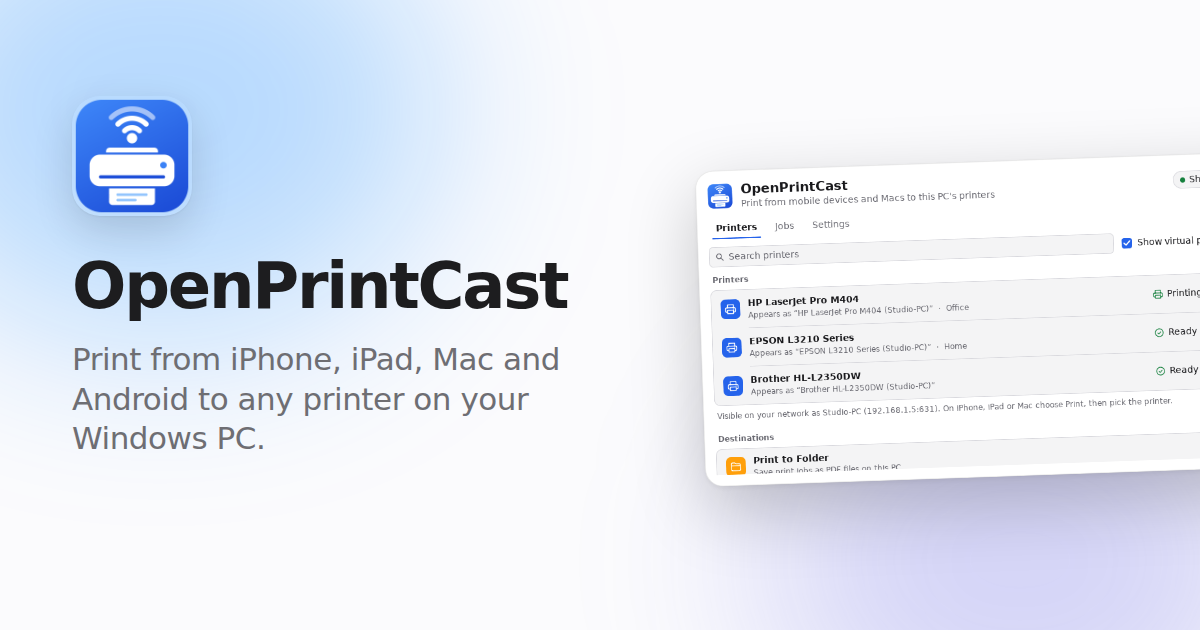
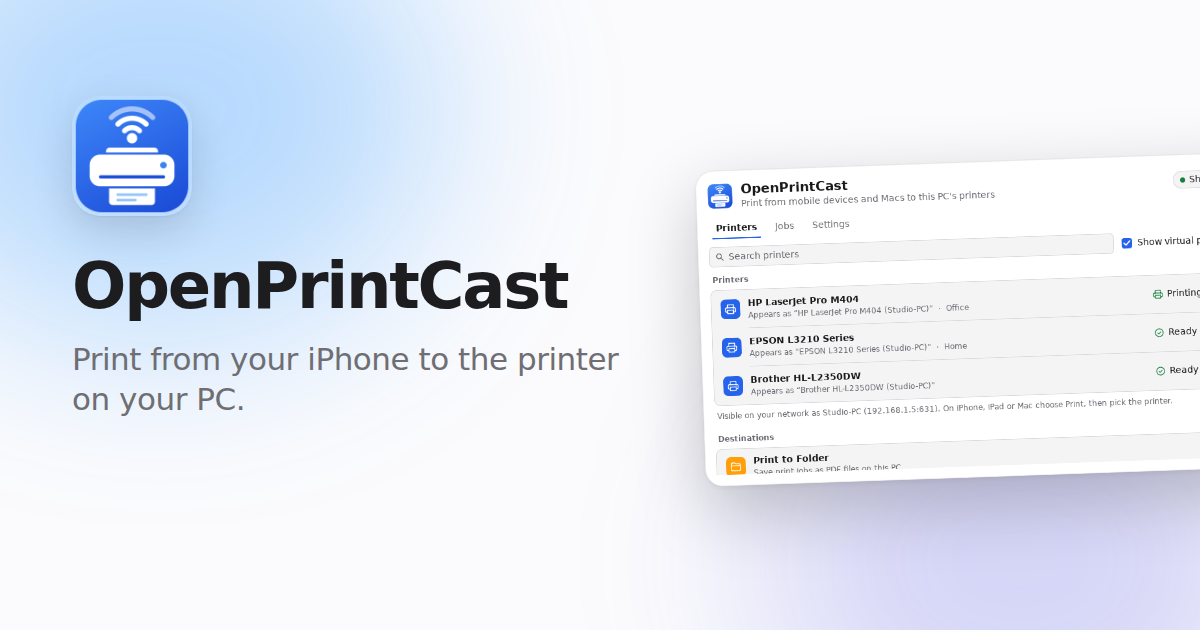
Rewrite the landing page copy
Lead with a concrete outcome (print from your iPhone to the printer on your
PC) and say what each feature does in short, plain sentences, in place of
generic slogans. Update the meta, social and FAQ structured data to match,
and re-render the social preview image.

Changed region(s): [[0.0617, 0.5429, 0.5242, 0.7238]]

diff --git a/docs/index.html b/docs/index.html
@@ -4,7 +4,7 @@
   <meta charset="utf-8">
   <meta name="viewport" content="width=device-width, initial-scale=1, viewport-fit=cover">
   <title>OpenPrintCast – Share Windows printers over AirPrint and IPP</title>
-  <meta name="description" content="Share your Windows printers with iPhone, iPad, Mac and Android. OpenPrintCast is a small tray app that exposes them as AirPrint and IPP Everywhere printers.">
+  <meta name="description" content="OpenPrintCast turns the printers on your Windows PC into AirPrint printers. iPhone, iPad, Mac and Android find them on their own. Free and open source.">
   <meta name="robots" content="index, follow, max-image-preview:large">
   <meta name="author" content="ilyasaftr">
   <meta name="application-name" content="OpenPrintCast">
@@ -19,8 +19,8 @@
   <meta property="og:type" content="website">
   <meta property="og:site_name" content="OpenPrintCast">
   <meta property="og:locale" content="en_US">
-  <meta property="og:title" content="OpenPrintCast – Print from any device to your Windows PC">
-  <meta property="og:description" content="Print from iPhone, iPad, Mac and Android to any printer on your Windows PC.">
+  <meta property="og:title" content="OpenPrintCast – Print from your iPhone to the printer on your PC">
+  <meta property="og:description" content="Turn the printers on your Windows PC into AirPrint printers for iPhone, iPad, Mac and Android. Free and open source.">
   <meta property="og:url" content="https://ilyasaftr.github.io/OpenPrintCast/">
   <meta property="og:image" content="https://ilyasaftr.github.io/OpenPrintCast/assets/img/og.png">
   <meta property="og:image:type" content="image/png">
@@ -28,8 +28,8 @@
   <meta property="og:image:height" content="630">
   <meta property="og:image:alt" content="OpenPrintCast shares Windows printers with iPhone, iPad, Mac and Android. The Printers tab is shown.">
   <meta name="twitter:card" content="summary_large_image">
-  <meta name="twitter:title" content="OpenPrintCast – Print from any device to your Windows PC">
-  <meta name="twitter:description" content="Print from iPhone, iPad, Mac and Android to any printer on your Windows PC.">
+  <meta name="twitter:title" content="OpenPrintCast – Print from your iPhone to the printer on your PC">
+  <meta name="twitter:description" content="Turn the printers on your Windows PC into AirPrint printers for iPhone, iPad, Mac and Android. Free and open source.">
   <meta name="twitter:image" content="https://ilyasaftr.github.io/OpenPrintCast/assets/img/og.png">
   <meta name="twitter:image:alt" content="OpenPrintCast shares Windows printers with iPhone, iPad, Mac and Android. The Printers tab is shown.">
   <link rel="stylesheet" href="assets/style.css">
@@ -42,7 +42,7 @@
       "@id": "https://ilyasaftr.github.io/OpenPrintCast/#website",
       "url": "https://ilyasaftr.github.io/OpenPrintCast/",
       "name": "OpenPrintCast",
-      "description": "Print from iPhone, iPad, Mac and Android to any printer on your Windows PC.",
+      "description": "Turn the printers on your Windows PC into AirPrint printers for iPhone, iPad, Mac and Android. Free and open source.",
       "inLanguage": "en"
     },
     {
@@ -50,7 +50,7 @@
       "@id": "https://ilyasaftr.github.io/OpenPrintCast/#app",
       "name": "OpenPrintCast",
       "url": "https://ilyasaftr.github.io/OpenPrintCast/",
-      "description": "Share your Windows printers with iPhone, iPad, Mac and Android. OpenPrintCast is a small tray app that exposes them as AirPrint and IPP Everywhere printers.",
+      "description": "OpenPrintCast turns the printers on your Windows PC into AirPrint printers. iPhone, iPad, Mac and Android find them on their own. Free and open source.",
       "applicationCategory": "UtilitiesApplication",
       "operatingSystem": "Windows 10, Windows 11",
       "processorRequirements": "amd64, arm64",
@@ -82,7 +82,7 @@
       "mainEntity": [
         {
           "@type": "Question",
-          "name": "A device sees the printer but can’t print",
+          "name": "My device finds the printer but can’t print. Why?",
           "acceptedAnswer": {
             "@type": "Answer",
             "text": "Windows treats the network as Public, or the firewall blocks TCP 631. Use the banner on the Printers tab: Open Network Settings to switch to Private, or Allow in Windows Firewall (one UAC prompt, local subnet only). Copy Diagnostics gives you text to share when reporting a problem."
@@ -90,7 +90,7 @@
         },
         {
           "@type": "Question",
-          "name": "“iPhone, iPad and Mac can’t print here”",
+          "name": "Why does a printer say “iPhone, iPad and Mac can’t print here”?",
           "acceptedAnswer": {
             "@type": "Answer",
             "text": "The driver doesn’t report paper sizes, orientation or resolution. Update it, then choose Scan Again."
@@ -132,7 +132,7 @@
       <ul class="nav-links">
         <li><a href="#features">Features</a></li>
         <li><a href="#how">How it works</a></li>
-        <li><a href="#faq">Help</a></li>
+        <li><a href="#faq">Questions</a></li>
         <li><a href="https://github.com/ilyasaftr/OpenPrintCast">GitHub</a></li>
       </ul>
       <a class="btn btn-small btn-primary" href="#download">Download</a>
@@ -142,8 +142,8 @@
   <main id="main">
     <section class="hero" id="top">
       <img class="hero-icon" data-anim src="assets/img/icon-256.png" alt="OpenPrintCast logo" width="104" height="104">
-      <h1 data-split>Print from any device to your Windows PC.</h1>
-      <p class="lead" data-anim>OpenPrintCast shares the printers on your PC as AirPrint and IPP&nbsp;Everywhere printers. iPhone, iPad, Mac and Android find them automatically. There is nothing to install on the device.</p>
+      <h1 data-split>Print from your iPhone to the printer on your PC.</h1>
+      <p class="lead" data-anim>OpenPrintCast turns the printers on your Windows PC into AirPrint printers. iPhone, iPad, Mac and Android find them on their own, with no drivers and nothing to install on the device.</p>
       <div class="cta" data-anim>
         <a class="btn btn-primary btn-large" id="cta-download" href="https://github.com/ilyasaftr/OpenPrintCast/releases/latest">Download for Windows</a>
         <a class="btn btn-secondary btn-large" href="https://github.com/ilyasaftr/OpenPrintCast">View on GitHub</a>
@@ -161,32 +161,32 @@
     </section>
 
     <section class="section" id="features" aria-labelledby="features-title">
-      <h2 id="features-title">Everything you need.<br><span class="muted">Nothing you don’t.</span></h2>
+      <h2 id="features-title">Any printer on your PC.<br><span class="muted">Any phone, tablet&nbsp;or&nbsp;Mac.</span></h2>
 
       <div class="bento">
         <article data-anim class="card span-2">
           <span class="icon"><svg class="ic" aria-hidden="true" focusable="false" xmlns="http://www.w3.org/2000/svg" viewBox="0 0 256 256" fill="currentColor"><path d="M232,96v80H192V152H64v24H24V96c0-8.84,7.76-16,17.33-16H214.67C224.24,80,232,87.16,232,96Z" opacity="0.2"/><path d="M214.67,72H200V40a8,8,0,0,0-8-8H64a8,8,0,0,0-8,8V72H41.33C27.36,72,16,82.77,16,96v80a8,8,0,0,0,8,8H56v32a8,8,0,0,0,8,8H192a8,8,0,0,0,8-8V184h32a8,8,0,0,0,8-8V96C240,82.77,228.64,72,214.67,72ZM72,48H184V72H72ZM184,208H72V160H184Zm40-40H200V152a8,8,0,0,0-8-8H64a8,8,0,0,0-8,8v16H32V96c0-4.41,4.19-8,9.33-8H214.67c5.14,0,9.33,3.59,9.33,8Zm-24-52a12,12,0,1,1-12-12A12,12,0,0,1,200,116Z"/></svg></span>
-          <h3>Your existing printers</h3>
-          <p>Paper size, color, duplex, page ranges and copies, when the driver supports them.</p>
+          <h3>Use the printer you have</h3>
+          <p>No new hardware. Paper size, color, duplex, page ranges and copies carry over, when your driver supports them.</p>
         </article>
 
         <article data-anim class="card span-2">
           <span class="icon"><svg class="ic" aria-hidden="true" focusable="false" xmlns="http://www.w3.org/2000/svg" viewBox="0 0 256 256" fill="currentColor"><path d="M160,128a32,32,0,1,1-32-32A32,32,0,0,1,160,128Z" opacity="0.2"/><path d="M128,88a40,40,0,1,0,40,40A40,40,0,0,0,128,88Zm0,64a24,24,0,1,1,24-24A24,24,0,0,1,128,152Zm73.71,7.14a80,80,0,0,1-14.08,22.2,8,8,0,0,1-11.92-10.67,63.95,63.95,0,0,0,0-85.33,8,8,0,1,1,11.92-10.67,80.08,80.08,0,0,1,14.08,84.47ZM69,103.09a64,64,0,0,0,11.26,67.58,8,8,0,0,1-11.92,10.67,79.93,79.93,0,0,1,0-106.67A8,8,0,1,1,80.29,85.34,63.77,63.77,0,0,0,69,103.09ZM248,128a119.58,119.58,0,0,1-34.29,84,8,8,0,1,1-11.42-11.2,103.9,103.9,0,0,0,0-145.56A8,8,0,1,1,213.71,44,119.58,119.58,0,0,1,248,128ZM53.71,200.78A8,8,0,1,1,42.29,212a119.87,119.87,0,0,1,0-168,8,8,0,1,1,11.42,11.2,103.9,103.9,0,0,0,0,145.56Z"/></svg></span>
-          <h3>Automatic discovery</h3>
-          <p>Advertised over Bonjour, so printers appear on iOS, iPadOS, macOS and Android.</p>
+          <h3>Found on its own</h3>
+          <p>Your printers appear in the print dialog on iPhone, iPad, Mac and Android. Nothing to install on the device.</p>
         </article>
 
         <article data-anim class="card span-2">
           <span class="icon"><svg class="ic" aria-hidden="true" focusable="false" xmlns="http://www.w3.org/2000/svg" viewBox="0 0 256 256" fill="currentColor"><path d="M208,88H152V32Z" opacity="0.2"/><path d="M224,152a8,8,0,0,1-8,8H192v16h16a8,8,0,0,1,0,16H192v16a8,8,0,0,1-16,0V152a8,8,0,0,1,8-8h32A8,8,0,0,1,224,152ZM92,172a28,28,0,0,1-28,28H56v8a8,8,0,0,1-16,0V152a8,8,0,0,1,8-8H64A28,28,0,0,1,92,172Zm-16,0a12,12,0,0,0-12-12H56v24h8A12,12,0,0,0,76,172Zm88,8a36,36,0,0,1-36,36H112a8,8,0,0,1-8-8V152a8,8,0,0,1,8-8h16A36,36,0,0,1,164,180Zm-16,0a20,20,0,0,0-20-20h-8v40h8A20,20,0,0,0,148,180ZM40,112V40A16,16,0,0,1,56,24h96a8,8,0,0,1,5.66,2.34l56,56A8,8,0,0,1,216,88v24a8,8,0,0,1-16,0V96H152a8,8,0,0,1-8-8V40H56v72a8,8,0,0,1-16,0ZM160,80h28.69L160,51.31Z"/></svg></span>
-          <h3>Print to Folder</h3>
-          <p>Save what you print as a PDF in a folder you choose.</p>
+          <h3>Print to PDF</h3>
+          <p>Choose Print to Folder, and what you print lands as a PDF in a folder on your PC.</p>
         </article>
 
         <article data-anim class="card span-3 media">
           <div>
             <span class="icon"><svg class="ic" aria-hidden="true" focusable="false" xmlns="http://www.w3.org/2000/svg" viewBox="0 0 256 256" fill="currentColor"><path d="M232,152v24a8,8,0,0,1-8,8H32a8,8,0,0,1-8-8V153.13C24,95.65,70.15,48.2,127.63,48A104,104,0,0,1,232,152Z" opacity="0.2"/><path d="M207.06,72.67A111.24,111.24,0,0,0,128,40h-.4C66.07,40.21,16,91,16,153.13V176a16,16,0,0,0,16,16H224a16,16,0,0,0,16-16V152A111.25,111.25,0,0,0,207.06,72.67ZM224,176H119.71l54.76-75.3a8,8,0,0,0-12.94-9.42L99.92,176H32V153.13c0-3.08.15-6.12.43-9.13H56a8,8,0,0,0,0-16H35.27c10.32-38.86,44-68.24,84.73-71.66V80a8,8,0,0,0,16,0V56.33A96.14,96.14,0,0,1,221,128H200a8,8,0,0,0,0,16h23.67c.21,2.65.33,5.31.33,8Z"/></svg></span>
-            <h3>Clear status</h3>
-            <p>Printer status, ink and toner levels, job history, cancel and failure details.</p>
+            <h3>See what’s happening</h3>
+            <p>Printer status, ink and toner levels, and every job. Cancel one, or see why it failed.</p>
           </div>
           <figure class="shot inset fade">
             <picture>
@@ -201,8 +201,8 @@
         <article data-anim class="card span-3 media">
           <div>
             <span class="icon"><svg class="ic" aria-hidden="true" focusable="false" xmlns="http://www.w3.org/2000/svg" viewBox="0 0 256 256" fill="currentColor"><path d="M216,56v56c0,96-88,120-88,120S40,208,40,112V56a8,8,0,0,1,8-8H208A8,8,0,0,1,216,56Z" opacity="0.2"/><path d="M208,40H48A16,16,0,0,0,32,56v56c0,52.72,25.52,84.67,46.93,102.19,23.06,18.86,46,25.26,47,25.53a8,8,0,0,0,4.2,0c1-.27,23.91-6.67,47-25.53C198.48,196.67,224,164.72,224,112V56A16,16,0,0,0,208,40Zm0,72c0,37.07-13.66,67.16-40.6,89.42A129.3,129.3,0,0,1,128,223.62a128.25,128.25,0,0,1-38.92-21.81C61.82,179.51,48,149.3,48,112l0-56,160,0ZM82.34,141.66a8,8,0,0,1,11.32-11.32L112,148.69l50.34-50.35a8,8,0,0,1,11.32,11.32l-56,56a8,8,0,0,1-11.32,0Z"/></svg></span>
-            <h3>Reachability check</h3>
-            <p>Spots a blocked port or a Public network and fixes the firewall in one click.</p>
+            <h3>Blocked? One click.</h3>
+            <p>If a Public network or the firewall keeps your devices out, OpenPrintCast tells you why and fixes the firewall in one click.</p>
           </div>
           <figure class="shot inset fade">
             <picture>
@@ -217,30 +217,30 @@
         <article data-anim class="card span-6 wide">
           <span class="icon"><svg class="ic" aria-hidden="true" focusable="false" xmlns="http://www.w3.org/2000/svg" viewBox="0 0 256 256" fill="currentColor"><path d="M215.8,119.6l-69.26,70.06a8,8,0,0,1-5.65,2.34H64.2V115.31a8,8,0,0,1,2.34-5.65L112.2,64.52V144l24-24Z" opacity="0.2"/><path d="M221.28,34.75a64,64,0,0,0-90.49,0L60.69,104A15.9,15.9,0,0,0,56,115.31v73.38L26.34,218.34a8,8,0,0,0,11.32,11.32L67.32,200H140.7A15.92,15.92,0,0,0,152,195.32l0,0,69.23-70A64,64,0,0,0,221.28,34.75ZM142.07,46.06A48,48,0,0,1,211.79,112H155.33l34.35-34.34a8,8,0,0,0-11.32-11.32L120,124.69V67.87ZM72,115.35l32-31.67v57l-32,32ZM140.7,184H83.32l56-56h56.74Z"/></svg></span>
           <div>
-            <h3>Native and lightweight</h3>
-            <p>A single Windows executable written in Go, with a small memory footprint.</p>
+            <h3>Built to stay out of the way</h3>
+            <p>One native Windows app written in Go, with a small memory footprint. It waits in the tray until you print.</p>
           </div>
         </article>
       </div>
     </section>
 
     <section class="section" id="how" aria-labelledby="how-title">
-      <h2 id="how-title">Three steps.</h2>
+      <h2 id="how-title">Share a printer in three steps.</h2>
       <ol class="steps">
-        <li data-anim><span class="num" aria-hidden="true">1</span><h3>Start it</h3><p>OpenPrintCast runs in the tray. Closing the window hides it.</p></li>
-        <li data-anim><span class="num" aria-hidden="true">2</span><h3>Share printers</h3><p>On the Printers tab, switch on the printers you want to share.</p></li>
-        <li data-anim><span class="num" aria-hidden="true">3</span><h3>Print</h3><p>Pick the printer in the print dialog. On a Mac, add it in Printers &amp; Scanners.</p></li>
+        <li data-anim><span class="num" aria-hidden="true">1</span><h3>Open it</h3><p>OpenPrintCast lives in the tray. Close the window and it keeps running.</p></li>
+        <li data-anim><span class="num" aria-hidden="true">2</span><h3>Switch on a printer</h3><p>On the Printers tab, turn on the ones you want to share.</p></li>
+        <li data-anim><span class="num" aria-hidden="true">3</span><h3>Tap Print</h3><p>Pick it in the print dialog on your device. On a Mac, add it once in Printers &amp; Scanners.</p></li>
       </ol>
     </section>
 
     <section class="section split" aria-labelledby="tray-title">
       <div class="split-text" data-anim>
-        <h2 id="tray-title">Made for the tray.</h2>
+        <h2 id="tray-title">Starts with Windows.<br>Lives in the tray.</h2>
         <ul class="ticks">
           <li><strong>Open at login</strong> starts it with Windows, hidden in the tray.</li>
-          <li><strong>Notifications</strong> tell you when a print job fails.</li>
-          <li><strong>Job history</strong> survives restarts, and you can turn it off.</li>
-          <li><strong>Light and dark</strong> themes follow your system.</li>
+          <li><strong>Notifications</strong> tell you the moment a print job fails.</li>
+          <li><strong>Job history</strong> is still there after a restart. Turn it off whenever you like.</li>
+          <li><strong>Light and dark</strong> follow your Windows theme.</li>
         </ul>
       </div>
       <figure class="shot fade" data-anim>
@@ -254,7 +254,7 @@
     </section>
 
     <section class="section" aria-labelledby="formats-title">
-      <h2 id="formats-title">Prints what devices send.</h2>
+      <h2 id="formats-title">Prints what your devices send.</h2>
       <ul class="chips" aria-label="Supported formats">
         <li data-anim>PDF</li><li data-anim>JPEG</li><li data-anim>PNG</li><li data-anim>Apple URF</li><li data-anim>PWG Raster</li><li data-anim>gzip</li><li data-anim>deflate</li>
       </ul>
@@ -262,14 +262,14 @@
     </section>
 
     <section class="section" id="faq" aria-labelledby="faq-title">
-      <h2 id="faq-title">Help.</h2>
+      <h2 id="faq-title">Common questions</h2>
       <div class="faq">
         <details data-anim>
-          <summary>A device sees the printer but can’t print</summary>
+          <summary>My device finds the printer but can’t print. Why?</summary>
           <p>Windows treats the network as Public, or the firewall blocks TCP 631. Use the banner on the Printers tab: <strong>Open Network Settings</strong> to switch to Private, or <strong>Allow in Windows Firewall</strong> (one UAC prompt, local subnet only). <strong>Copy Diagnostics</strong> gives you text to share when reporting a problem.</p>
         </details>
         <details data-anim>
-          <summary>“iPhone, iPad and Mac can’t print here”</summary>
+          <summary>Why does a printer say “iPhone, iPad and Mac can’t print here”?</summary>
           <p>The driver doesn’t report paper sizes, orientation or resolution. Update it, then choose <strong>Scan Again</strong>.</p>
         </details>
         <details data-anim>
@@ -285,8 +285,8 @@
 
     <section class="section download" id="download" aria-labelledby="download-title">
       <img data-anim class="download-icon" src="assets/img/icon-256.png" alt="" width="72" height="72" loading="lazy">
-      <h2 id="download-title">Get OpenPrintCast.</h2>
-      <p class="lead">Pick <strong>amd64</strong> for Intel and AMD, or <strong>arm64</strong> for ARM, for example Snapdragon.</p>
+      <h2 id="download-title">Download OpenPrintCast.</h2>
+      <p class="lead">Free and open source, for Windows 10 and 11. Pick <strong>amd64</strong> for Intel and AMD, or <strong>arm64</strong> for ARM, for example Snapdragon.</p>
       <div class="dl-grid">
         <div data-anim class="card dl" data-arch="amd64">
           <h3>Windows · amd64</h3>
